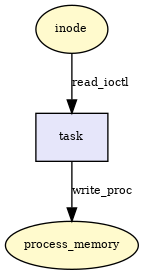
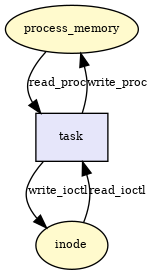
deal with generates

diff --git a/security/provenance/hooks.c b/security/provenance/hooks.c
@@ -212,7 +212,8 @@ static int provenance_cred_prepare(struct cred *new,
 				   gfp_t gfp)
 {
 	struct provenance *old_prov = old->provenance;
-	struct provenance *prov = alloc_provenance(ENT_PROC, gfp);
+	struct provenance *nprov = alloc_provenance(ENT_PROC, gfp);
+	struct provenance *tprov;
 	unsigned long irqflags;
 	int rc = 0;
 
@@ -222,10 +223,11 @@ static int provenance_cred_prepare(struct cred *new,
 	node_gid(prov_elt(prov)) = __kgid_val(new->egid);
 	spin_lock_irqsave_nested(prov_lock(old_prov), irqflags, PROVENANCE_LOCK_PROC);
 	if (current != NULL)
-		if (current->provenance != NULL)
+		tprov = current->provenance;
+		if (tprov != NULL)
 			// Here we use current->provenance instead of calling get_task_provenance because at this point pid and vpid are not ready yet.
 			// System will crash if attempt to update those values.
-			rc = generates(RL_CLONE_MEM, old_prov, current->provenance, prov, NULL, 0);
+			rc = generates(RL_CLONE_MEM, old_prov, tprov, nprov, NULL, 0);
 	spin_unlock_irqrestore(prov_lock(old_prov), irqflags);
 	new->provenance = prov;
 	return rc;
@@ -269,13 +271,13 @@ static int provenance_task_fix_setuid(struct cred *new,
 				      int flags)
 {
 	struct provenance *old_prov = old->provenance;
-	struct provenance *prov = new->provenance;
+	struct provenance *nprov = new->provenance;
 	struct provenance *tprov = get_task_provenance();
 	unsigned long irqflags;
 	int rc;
 
 	spin_lock_irqsave_nested(prov_lock(old_prov), irqflags, PROVENANCE_LOCK_PROC);
-	rc = generates(RL_SETUID, old_prov, tprov, prov, NULL, flags);
+	rc = generates(RL_SETUID, old_prov, tprov, nprov, NULL, flags);
 	spin_unlock_irqrestore(prov_lock(old_prov), irqflags);
 	return rc;
 }

diff --git a/scripts/instruction.rb b/scripts/instruction.rb
@@ -12,7 +12,7 @@ class Instruction
   end
 
   def self.prov_to_type str
-    if str == 'cprov' || str=='nprov'
+    if str == 'cprov' || str=='nprov' || str == 'old_prov'
       return 'process_memory'
     elsif str == 'tprov'
       return 'task'
@@ -22,6 +22,10 @@ class Instruction
       return 'msg'
     elsif str == 'sprov'
       return 'shm'
+    elsif str == 'dprov'
+      return 'directory'
+    elsif str == 'iattrprov'
+      return 'iattr'
     else
       puts 'ERROR: unknown prov!!! '+str
     end
@@ -35,5 +39,15 @@ class Instruction
     b = self.prov_to_type elements[3]
     c = self.prov_to_type elements[4]
     return a + '-' + relation + '->' + b + ',' + b + '-write_proc->' + c
+  end
+
+  def self.generates_to_relation str
+    str = str.strip.delete(' ')
+    elements = str.match(/generates\(([A-Z_]+),([a-z_]+),([a-z_]+),([a-z_]+)/)
+    relation = self.relation_to_str elements[1]
+    a = self.prov_to_type elements[2]
+    b = self.prov_to_type elements[3]
+    c = self.prov_to_type elements[4]
+    return a + '-read_proc->' + b + ',' + b + '-' + relation + '->' + c
   end
 end

diff --git a/scripts/graphs.rb b/scripts/graphs.rb
@@ -26,5 +26,8 @@ File.readlines('./security/provenance/hooks.c').each do |line|
   if line.include?('uses(')
     str += ',' unless str == ''
     str += Instruction.uses_to_relation(line)
+  elsif line.include?('generates(')
+    str += ',' unless str == ''
+    str += Instruction.generates_to_relation(line)
   end
 end
